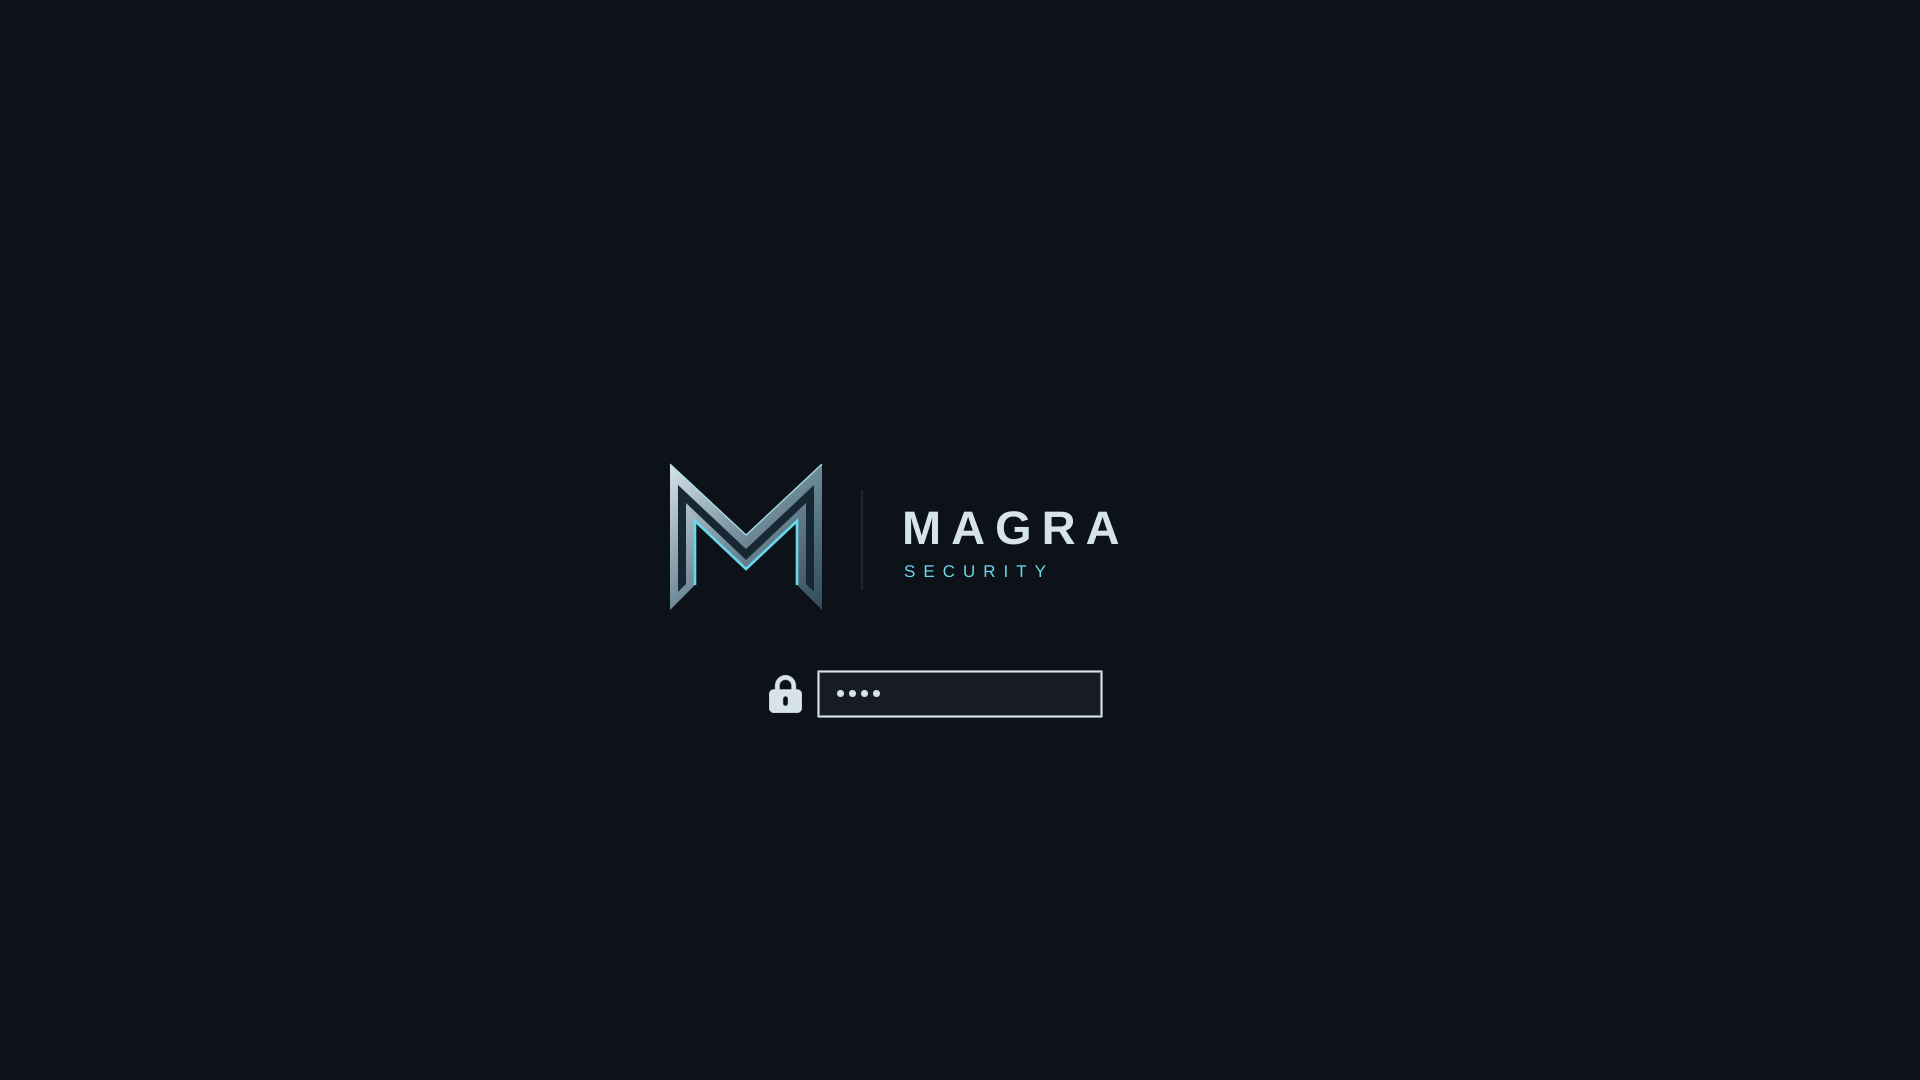
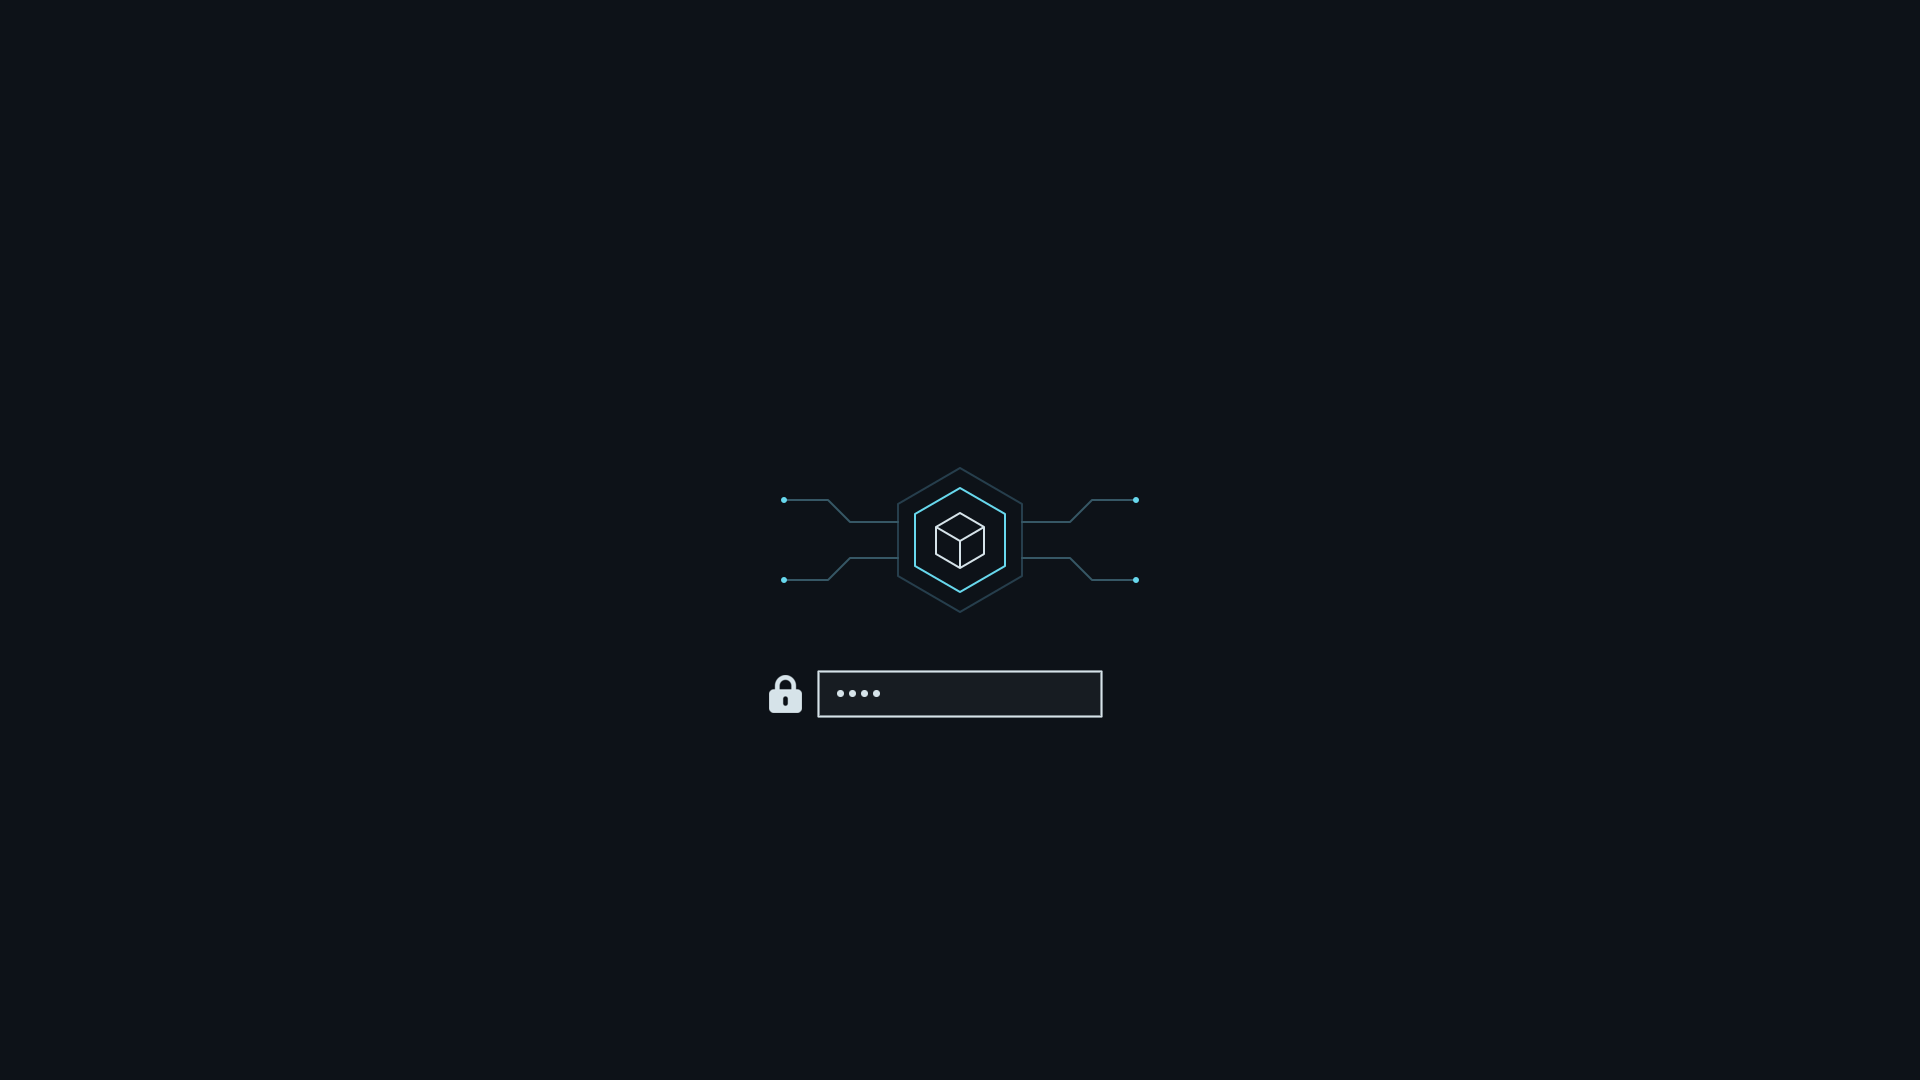
Expand Cyber theme with seven wallpapers

Changed region(s): [[0.3438, 0.4278, 0.5938, 0.55]]

diff --git a/README.md b/README.md
@@ -1,26 +1,32 @@
-# MAGRA Security
+# Cyber
 
-A quiet cybersecurity workspace: graphite surfaces, ice-cyan accents, a metallic monogram, and readable application colours. Built for Omarchy 4.
+A quiet cybersecurity theme for Omarchy 4. Graphite surfaces, ice-cyan accents and four original, unbranded wallpapers plus three retained MAGRA wallpapers inspired by cryptography, segmented networks and computing infrastructure.
 
-![MAGRA Security on a real Omarchy desktop](preview.png)
+![Cyber on a real Omarchy desktop](preview.png)
 
 ## Install
 
 ```sh
-omarchy theme install https://github.com/bifrost0x/omarchy-magra-security-theme
+omarchy theme install https://github.com/bifrost0x/omarchy-cyber-theme
 ```
 
-Alternatively, paste the repository URL into **Install → Style → Theme**. Choose **Magra Security** in the theme picker. Switch wallpapers through **Style → Background**.
+Or paste the repository URL into **Install → Style → Theme**, then choose **Cyber**. Switch between the seven wallpapers through **Style → Background**.
 
-## The complete visual theme
+## Wallpapers
 
-- **Focus** — the MAGRA monogram on a quiet graphite field. The first wallpaper.
-- **Night** — a restrained, darker alternative.
-- **City** — the original cinematic cybersecurity scene.
-- Matching terminal, editor and application colours generated by Omarchy from `colors.toml`.
-- Coordinated bar, menus, notifications, tooltips, launcher and lock-screen surfaces.
-- Transparent MAGRA artwork for **Style → Unlock**, with a rendered preview.
-- The editable vector wordmark and terminal artwork in `assets/`.
+| Wallpaper | Design |
+| --- | --- |
+| **[MAGRA Focus](backgrounds/00-magra-focus.png)** — default | The existing graphite MAGRA monogram wallpaper |
+| **[MAGRA Night](backgrounds/01-magra-night.png)** | The darker MAGRA alternative |
+| **[MAGRA City](backgrounds/02-magra-city.png)** | The original cinematic MAGRA city scene |
+| **[Cipher Core](backgrounds/03-cipher-core.png)** | A dark titanium cryptographic core and delicate cyan data paths |
+| **[Zero Trust](backgrounds/04-zero-trust.png)** | Glass network nodes, fine filaments and an isolated central cluster |
+| **[Night Operations](backgrounds/05-night-operations.png)** | A monumental subterranean server vault |
+| **[Silent Circuit](backgrounds/06-silent-circuit.png)** | Restrained graphite silicon and a travelling cyan signal |
+
+The four new Cyber wallpapers contain no company logos, slogans or lettering. The three MAGRA designs remain available by request, and **MAGRA Focus remains the default**. Each is supplied at **3840 × 2400** for 16:10 screens; Omarchy crops to fill other aspect ratios. The four new images were created with the built-in image generator at 1586 × 992 and exported with Lanczos upscaling; the three existing wallpapers are retained byte-for-byte. They are not native 4K renders.
+
+## Palette and surfaces
 
 | Role | Colour |
 | --- | --- |
@@ -32,24 +38,14 @@ Alternatively, paste the repository URL into **Install → Style → Theme**. Ch
 | Warning | `#d9bd82` |
 | Error | `#ec8894` |
 
-The theme uses Omarchy's normal colour generation. It contains no startup scripts or custom authentication code. Installing it changes appearance; selecting a boot-unlock design remains an explicit Omarchy action.
+Omarchy generates terminal, editor and application colours from `colors.toml`. Matching shell surfaces cover the bar, menus, launcher, notifications and lock screen. Abstract circuit artwork is available for **Style → Unlock**; the preview is rendered with Omarchy's own preview renderer.
 
-## Resolution and artwork
-
-The three wallpapers are 3840 × 2400 (16:10) exports. Omarchy crops them to fill 16:9 displays. They were generated with AI assistance and upscaled; they are not claimed to be native 4K renders. The vector terminal mark is separately drawn, so it stays sharp at arbitrary sizes.
-
-The desktop preview is a real 1920 × 1080 Omarchy capture. The unlock preview is rendered using Omarchy's own preview renderer.
-
-## Desktop additions
-
-The author's complete workstation also uses a terminal banner, a compact prompt, animated wallpaper screensaver and borderless fullscreen below a persistent bar. Those behavioural additions are maintained separately from the installable visual theme. They are not prerequisites for this theme and are not installed by its theme command.
+The theme contains appearance data only. It does not install startup scripts, terminal banners, window-management overrides or authentication code. The desktop preview uses ordinary terminal output and a public example file.
 
 ## Compatibility
 
-Validated with Omarchy 4.0.4 and Hyprland 0.56.2, plus the current Omarchy template engine recorded in `VALIDATION.md`. Omarchy 3's older Waybar/Hyprlock configuration is not supported by this release.
+Checked on Omarchy 4.0.4-1 / Hyprland 0.56.2 and the upstream template engine recorded in [VALIDATION.md](VALIDATION.md). Omarchy 3 is not supported by this release.
 
-## License and provenance
+## Releases and provenance
 
-MIT; see [LICENSE](LICENSE). Original MAGRA artwork was prepared for this theme with the commissioning user's approval. Omarchy-derived configuration retains its upstream copyright notice. MAGRA naming identifies the design; redistribution does not imply endorsement by the brand or by Omarchy.
-
-See [ARTWORK.md](ARTWORK.md) for the asset inventory and [VALIDATION.md](VALIDATION.md) for checks and limits.
+Version 1.1.0 introduces the **Cyber** name and adds four unbranded wallpapers alongside the three original MAGRA backgrounds. The original v1.0.0 remains in Git history for existing installations. See [ARTWORK.md](ARTWORK.md) for origins and [LICENSE](LICENSE) for the MIT license and upstream attribution.

diff --git a/PROMPTS.md b/PROMPTS.md
@@ -1,0 +1,19 @@
+# Wallpaper prompts
+
+Generated with the built-in image generation tool on 21 September 2026. Output sources were 1586 × 992; distribution files are 3840 × 2400 Lanczos exports.
+
+## Cipher Core
+
+Use case: stylized-concept. Asset type: premium Linux desktop wallpaper, landscape 16:10, request 3840x2400 output if supported, highest available detail. Title for reference only: Cipher Core. Create a stunning restrained cybersecurity wallpaper: a single dark monolithic cryptographic core, a precision-machined black titanium cube with delicate layered circuit engravings, floating just above a matte graphite plane. Three-quarter perspective, small enough to occupy the central third of the canvas, generous quiet dark negative space for desktop windows. Razor-thin ice-cyan light escaping seams, a few graceful fiber-optic traces travelling outward over the ground like secured data routes. Photoreal cinematic CGI, exact material detail, tiny brushed-metal highlights, volumetric atmosphere extremely subtle, sophisticated museum-grade lighting. Palette very dark graphite #0d1218, blue-black shadows, muted silver, selective ice cyan #67d8ed. Uppermost area especially dark for a topbar. Clear but restrained luminance, not an oversaturated neon poster. No brand, no logo, no letters, no numbers, no readable text, no watermark, no people, no hooded hackers, no padlock or shield icon. Single full-bleed wallpaper, not a collage or device mockup.
+
+## Zero Trust
+
+Use case: stylized-concept. Asset type: premium Linux desktop wallpaper, landscape 16:10, ideally 3840x2400, finest detail. Title for reference only: Zero Trust. Create an elegant abstract cybersecurity network suspended in vast black space: extremely fine ice-cyan filament links connecting sparse small glass and dark metallic nodes in a flowing three-dimensional orbital structure across the middle and lower portion, like carefully segmented protected data paths. One delicate luminous circular boundary surrounds the central small network cluster, suggesting isolation and cryptographic trust without any literal icons. NOT a globe, not a brain. Restrained asymmetric composition, subtle depth and microdetails, generous dark negative space, upper third almost empty. Luxury scientific visualization meets cinematic 3D installation, precise thin threads, a handful of tiny brighter cyan nodes, soft graphite mist fading to blue-black. Palette background #0d1218, highlights #67d8ed, steel gray. Rich contrast but low overall luminance; no neon rainbow, no magenta. No brand, no logos, no typography, no digits, no code, no watermark, no people, no hooded hacker, no padlock/shield icons. Single full-bleed desktop wallpaper, no collage, no screen mockup.
+
+## Night Operations
+
+Use case: stylized-concept. Asset type: premium Linux desktop wallpaper landscape 16:10, request 3840x2400 output, highest available detail. Title reference only: Night Operations. A spectacular but quiet cybersecurity infrastructure environment: a vast subterranean data vault of tall matte-black server monoliths arranged in architectural rows, seen from a low wide cinematic viewpoint. Thin ice-cyan vertical status light slits, a dark reflective stone floor carrying a few fine fiber optic paths toward a distant softly glowing vanishing point. Strong coherent architecture, realistic precise physical materials, sharp foreground server details, very subtle distant haze. Black graphite and deep navy, silver highlights and selective ice cyan #67d8ed. Dark upper part and calm peripheral space suitable behind application windows. Confident premium sci-fi architectural photography, no chaotic pipes, no excessive glowing neon, no bright white ceiling. No brand, no lettering, no numbers, no logos, no MAGRA, no signage, no watermark, no people, no hooded figures, no stock padlock/shield. Full-bleed single image, no collage, no device mockup.
+
+## Silent Circuit
+
+Use case: stylized-concept. Asset type: minimal high-end Linux desktop wallpaper, landscape 16:10, ideally 3840x2400 output, highest detail. Title for reference only: Silent Circuit. A breathtaking macro world of dark graphite silicon: an extremely clean planar circuit architecture viewed at a shallow oblique angle, layered black ceramic traces and precise machined channels sweeping diagonally across the lower half toward a small recessed processor near the right of center. A restrained single pulse of ice-cyan light travels through selected paths, tiny silver contact points, subtle tactile brushed graphite and almost invisible etched technical detail. Spacious low-contrast blue-black upper half, refined abstract geometric composition, crisp structural lines, soft dark atmospheric background, no blur on the principal circuitry. Premium macro product photography and architectural abstraction, calm enough for daily coding desktop. Palette background #0d1218, black titanium, steel and #67d8ed highlights only. No logos, no company references, no MAGRA, no lettering, no code, no digits, no watermark, no people, no padlock or shield. No central bright spotlight, no rainbow neon. One full-bleed image; not collage/mockup.

diff --git a/ARTWORK.md b/ARTWORK.md
@@ -1,15 +1,19 @@
 # Artwork provenance
 
-Prepared on 21 September 2026 for the user-requested MAGRA Security desktop.
+Created on 21 September 2026 for the Cyber Omarchy theme using the built-in image generator.
 
-| File | Origin | Dimensions |
+| File | Origin | Distributed dimensions |
 | --- | --- | --- |
-| `backgrounds/01-focus.png` | AI-assisted MAGRA Focus wallpaper; Lanczos upscale of the approved source | 3840 × 2400 |
-| `backgrounds/02-night.png` | AI-assisted MAGRA Night wallpaper; Lanczos upscale of the approved source | 3840 × 2400 |
-| `backgrounds/03-city.png` | AI-assisted original MAGRA city wallpaper; Lanczos upscale of the approved source | 3840 × 2400 |
-| `assets/magra-logo.svg` | Original geometric vector monogram and wordmark | 600 × 180 view box |
-| `assets/magra-logo.png`, `unlock.png` | Raster export of that vector | 600 × 180 |
-| `preview.png` | Real desktop capture using this theme and public demo content | 1920 × 1080 |
-| `preview-unlock.png` | Omarchy Plymouth preview renderer with the MAGRA logo and palette | 1920 × 1080 |
+| `backgrounds/00-magra-focus.png` | Original MAGRA Focus from v1.0.0, unchanged; default | 3840 × 2400 |
+| `backgrounds/01-magra-night.png` | Original MAGRA Night from v1.0.0, unchanged | 3840 × 2400 |
+| `backgrounds/02-magra-city.png` | Original MAGRA City from v1.0.0, unchanged | 3840 × 2400 |
+| `backgrounds/03-cipher-core.png` | Original generated cryptographic-core scene | 3840 × 2400 |
+| `backgrounds/04-zero-trust.png` | Original generated segmented-network scene | 3840 × 2400 |
+| `backgrounds/05-night-operations.png` | Original generated server-vault scene | 3840 × 2400 |
+| `backgrounds/06-silent-circuit.png` | Original generated silicon-circuit scene | 3840 × 2400 |
+| `assets/circuit.svg` | Original geometric circuit illustration, no lettering | 600 × 180 view box |
+| `unlock.png` | Transparent raster export of the circuit illustration | 600 × 180 |
+| `preview.png` | Actual desktop capture with public demonstration content | 1920 × 1080 |
+| `preview-unlock.png` | Native Omarchy Plymouth preview renderer | 1920 × 1080 |
 
-No Lumon artwork or other third-party wallpaper is included. The MAGRA wordmark uses the installed Liberation Sans font when the editable SVG is rendered; the PNG contains the already-rendered lettering. No font binaries are distributed.
+The four new source images are 1586 × 992. The three original MAGRA wallpapers retain their earlier AI-assisted and upscaled provenance. The wallpapers are Lanczos upscales with a tiny centre crop to exact 16:10. These are 4K-sized exports, not native 4K renders. All four new images were visually checked for branding, lettering, composition and consistency with the theme palette. No third-party wallpaper or font binary is distributed.

diff --git a/VALIDATION.md b/VALIDATION.md
@@ -1,12 +1,16 @@
-# Validation — v1.0.0
+# Validation — v1.1.0
 
 Checked on 21 September 2026. Installed baseline: Omarchy 4.0.4-1, Hyprland 0.56.2. Upstream comparison: `omacom/omarchy`, branch `quattro`, commit `8f324c90b82790d31ab33565441e07cbdb8d2308`.
+
+## Version 1.1.0
+
+Renamed the theme to Cyber and added four new unbranded wallpapers. All three original MAGRA wallpapers remain. The palette and shell settings are unchanged. Updated installer tests, theme-specific checks and visual inspection were repeated for this release. Full-suite results below refer to the earlier run against the same unchanged upstream base.
 
 ## Passed
 
 - TOML parsing, required palette values and distributable asset checks.
 - Foreground, accent, muted and six signal colours each have at least 4.5:1 contrast against the palette background. Foreground: 14.35:1; accent: 11.30:1; muted: 5.68:1. This is a palette check, not a claim that every application surface is accessibility-audited.
-- All three wallpapers are 3840 × 2400; both previews are 1920 × 1080. The wallpapers are upscaled AI-assisted artwork, as documented in ARTWORK.md.
+- All seven wallpapers are 3840 × 2400; both previews are 1920 × 1080. The wallpapers are upscaled AI-assisted artwork, as documented in ARTWORK.md. The three original wallpapers are byte-identical to v1.0.0; the current MAGRA Focus image remains first/default.
 - Both the installed and upstream Omarchy template engines generated 20 application configuration files without unresolved colour placeholders, in isolated output directories.
 - Upstream `./test/cli` after aligning the palette with the built-in theme convention (no cursor token).
 - Upstream theme staging, user-theme setup and theme-install guard tests.
